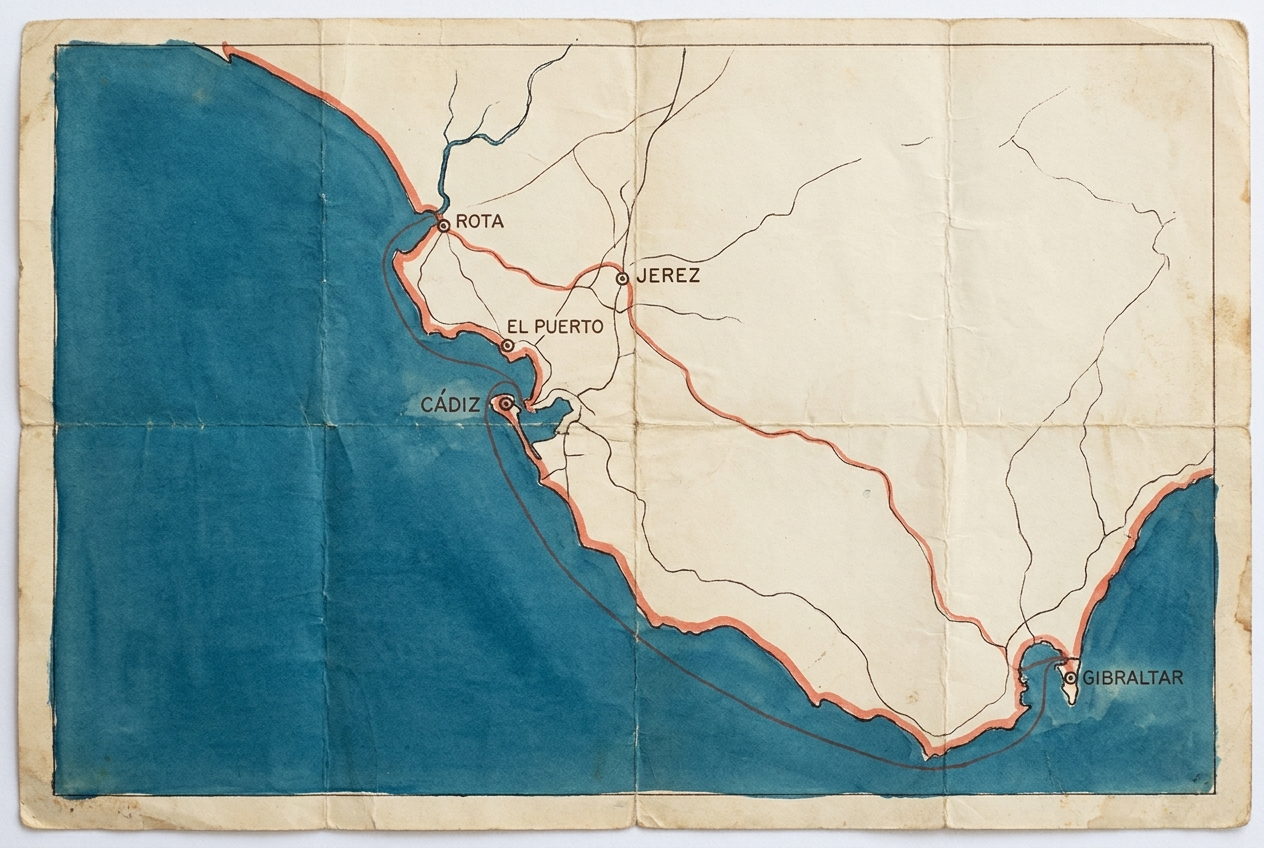
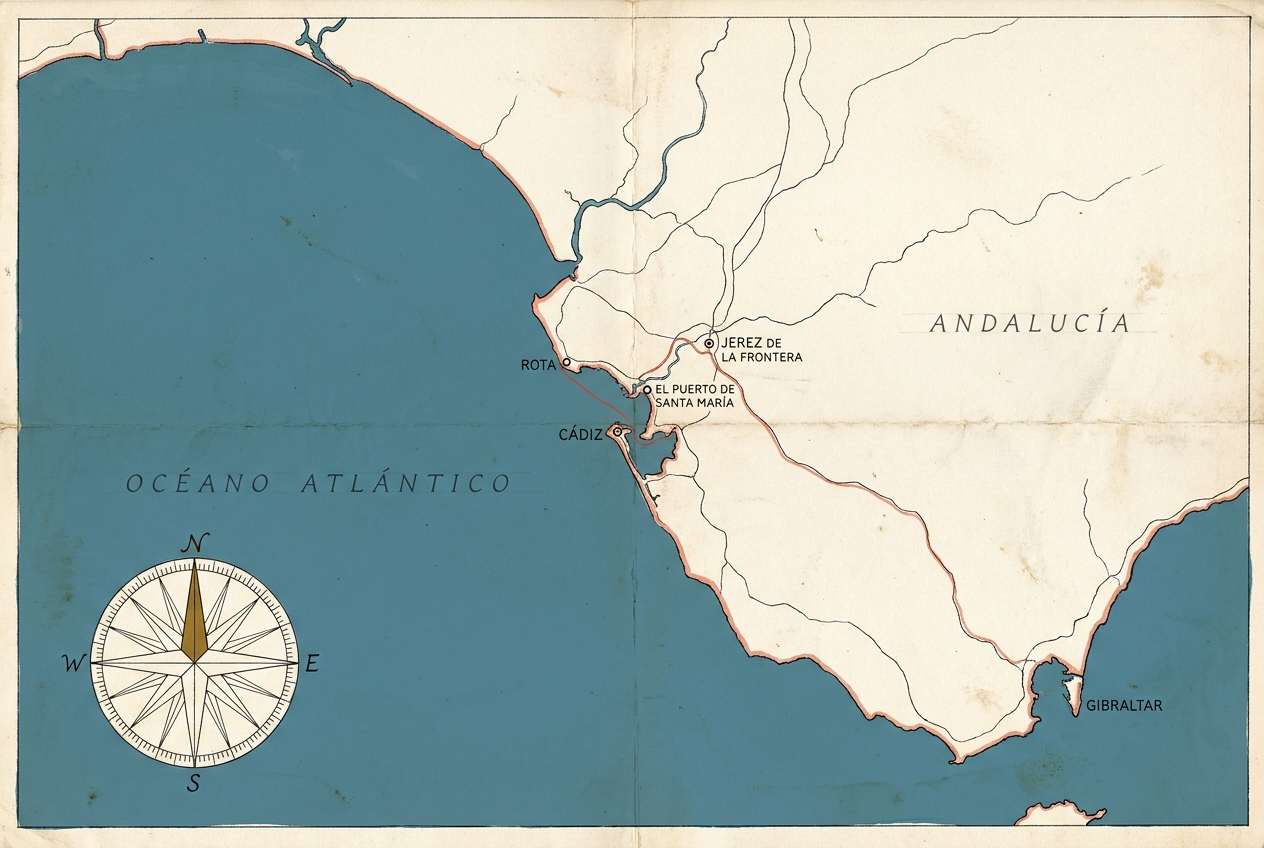
fix(cadiz): Karte geographisch korrigiert, Stecknadeln, Kompassrose
Drei Befunde von Henning, alle korrigiert:

1. ROTA lag auf der Karte rund 10 km daneben — an der Guadalquivir-
   Muendung, wo Sanlucar de Barrameda liegt. Jetzt steht es korrekt an
   der Nordwestspitze der Bucht, direkt gegenueber Cadiz. Die
   Guadalquivir-Muendung ist weiterhin gezeichnet, aber unbeschriftet.

2. Die Jakobsmuschel (09.09.) war im Querformat RICHTIG. Meine
   EXIF-Korrektur hat sie faelschlich gedreht: die Datei traegt
   Orientierung 6, die Aufnahme ist trotzdem quer. Eine EXIF-Angabe ist
   eine Behauptung ueber das Bild, keine Auskunft ueber die Aufnahme —
   dieses eine Bild wird jetzt ohne Rotation uebernommen. Der 05.09.
   (Takelage) bleibt korrigiert, dort stimmte die Angabe.

3. Neu auf der Karte: eine nautische Kompassrose unten links nach dem
   Vorbild des VuZ-Designsystems (16-strahlige Windrose, Gradring,
   goldener Nordpfeil) und zwei spanische Flaechenbeschriftungen,
   OCEANO ATLANTICO und ANDALUCIA.

Die fuenf Orte tragen jetzt Stecknadeln mit unterschiedlich gefaerbten
Koepfen und minimal verschiedenen Neigungen (6 bis 11 Grad). Weil die
korrekte Rota-Position die vier Bucht-Orte eng zusammenruecken laesst,
sitzen die Schilder versetzt und sind durch feine Fuehrungslinien mit
ihrer Nadel verbunden — wie eine Seekarte es macht, wenn der Platz
knapp wird.

diff --git a/sites/cadiz/index.html b/sites/cadiz/index.html
@@ -269,11 +269,16 @@
 			<img src="assets/plates/route-map.png" width="1264" height="848"
 				alt="Gezeichnete Karte der andalusischen Atlantikküste auf gefaltetem Papier: die Bucht von Cádiz mit der Landzunge, nördlich Rota und El Puerto de Santa María, landeinwärts Jerez de la Frontera, im Südosten der Felsen von Gibraltar. Eine rote Linie verbindet die fünf Orte.">
 
-			<a class="maproute__pin maproute__pin--left" href="#tag-03-09" data-pin="1"><span>Cádiz</span> <span class="maproute__date hand">03.09.</span></a>
-			<a class="maproute__pin maproute__pin--left" href="#tag-15-09" data-pin="2"><span>El Puerto de Santa María</span> <span class="maproute__date hand">15.09.</span></a>
-			<a class="maproute__pin maproute__pin--right" href="#tag-10-09" data-pin="3"><span>Rota</span> <span class="maproute__date hand">10.09.</span></a>
-			<a class="maproute__pin maproute__pin--right" href="#tag-08-09" data-pin="4"><span>Jerez de la Frontera</span> <span class="maproute__date hand">08.09.</span></a>
-			<a class="maproute__pin maproute__pin--right" href="#tag-07-09" data-pin="5"><span>Gibraltar</span> <span class="maproute__date hand">07.09.</span></a>
+			<span class="maproute__stick" data-pin="1" aria-hidden="true"></span>
+			<a class="maproute__pin maproute__pin--left" data-pin="1" href="#tag-03-09"><span class="maproute__place">Cádiz</span> <span class="maproute__date hand">03.09.</span></a>
+			<span class="maproute__stick" data-pin="2" aria-hidden="true"></span>
+			<a class="maproute__pin maproute__pin--right" data-pin="2" href="#tag-15-09"><span class="maproute__place">El Puerto de Santa María</span> <span class="maproute__date hand">15.09.</span></a>
+			<span class="maproute__stick" data-pin="3" aria-hidden="true"></span>
+			<a class="maproute__pin maproute__pin--left" data-pin="3" href="#tag-10-09"><span class="maproute__place">Rota</span> <span class="maproute__date hand">10.09.</span></a>
+			<span class="maproute__stick" data-pin="4" aria-hidden="true"></span>
+			<a class="maproute__pin maproute__pin--right" data-pin="4" href="#tag-08-09"><span class="maproute__place">Jerez de la Frontera</span> <span class="maproute__date hand">08.09.</span></a>
+			<span class="maproute__stick" data-pin="5" aria-hidden="true"></span>
+			<a class="maproute__pin maproute__pin--right" data-pin="5" href="#tag-07-09"><span class="maproute__place">Gibraltar</span> <span class="maproute__date hand">07.09.</span></a>
 		</div>
 
 		<p class="maproute__foot">Ein Ort führt zu dem Tag, an dem wir dort waren.</p>
